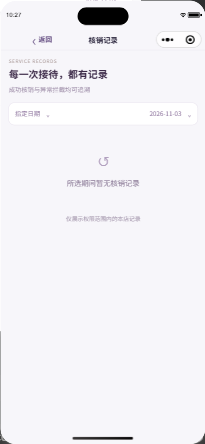
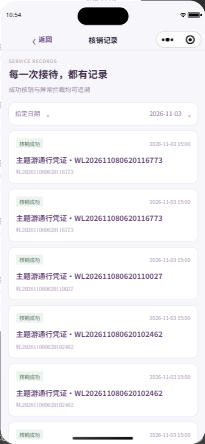
Record deployed merchant acceptance and guard fixed-date demo replay

diff --git a/docs/商户端统一打磨与历史数据验收-20261108.md b/docs/商户端统一打磨与历史数据验收-20261108.md
@@ -37,6 +37,8 @@
 
 专项覆盖60笔历史订单跨5页超过旧50条上限、闰年日期与非法日期、指定历史日金额/订单/趋势、历史团期、门店隔离、核销员只看本人记录、核销按核销日而非支付日统计、同名商品按ID分组、筛选交叉与过期/停售余量、可信凭证六种状态不冒充确认。
 
-隔离服务模拟器逐页走查：首页三十日与指定日期、库存折叠/展开/搜索/历史/重置、订单服务端搜索与翻页、结算展开、等级/勋章/可信凭证、我的凭证入口和历史核销记录通过。正式演示部署后另行复查。临时商户副本借游客AppID启动开发者工具，仓库商户AppID未改；不等于真实商户AppID/真机验收。
+隔离服务模拟器逐页走查：首页三十日与指定日期、库存折叠/展开/搜索/历史/重置、订单服务端搜索与翻页、结算展开、等级/勋章/可信凭证、我的凭证入口和历史核销记录通过。PR #140 合并为 b8b3c75 后已同步主演示工作区，部署前完整备份 backup/merchant-polish-before-deploy-20261108.sql，保留原.env重启8080，/c/health返回MOCK健康。针对8080重新执行同样全页走查，无脚本异常，本文截图已替换为部署后实图。临时商户副本借游客AppID启动开发者工具，仓库商户AppID未改；不等于真实商户AppID/真机验收。
+
+追加月度模拟器专项：实际搜索“演示样例·月1108-”并翻完120笔、退款筛选30笔、指定10月10日返回4笔；库存历史组先六条再加六条；30天趋势每天均非空，合计与首页经营订单一致。[部署全页结果](evidence/merchant-polish-20261108/simulator-main.json)、[月度交互结果](evidence/merchant-polish-20261108/month-ui.json)、[最早一日订单](evidence/merchant-polish-20261108/month-oldest-day.png)、[订单趋势](evidence/merchant-polish-20261108/month-trend.png)。可重复执行 `cd api && node test/merchant-month-simulator.mjs`（要求演示数据及9422模拟器已启动）。
 
 证据：[结构化结果](evidence/merchant-polish-20261108/verification.json)、[分组库存](evidence/merchant-polish-20261108/stock-groups.png)、[展开团期](evidence/merchant-polish-20261108/stock-expanded.png)、[历史经营](evidence/merchant-polish-20261108/home-history.png)、[凭证](evidence/merchant-polish-20261108/credentials.png)。
